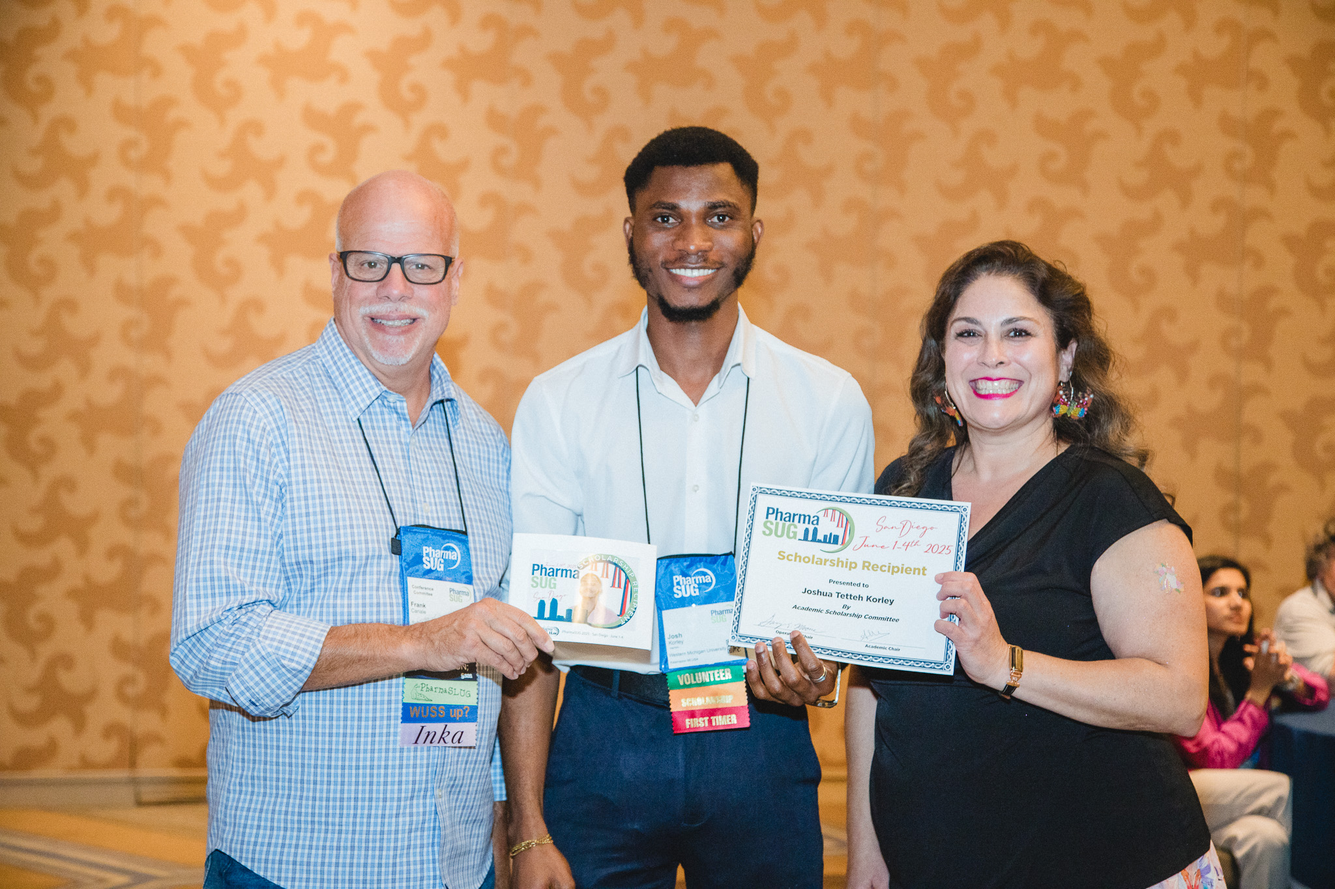
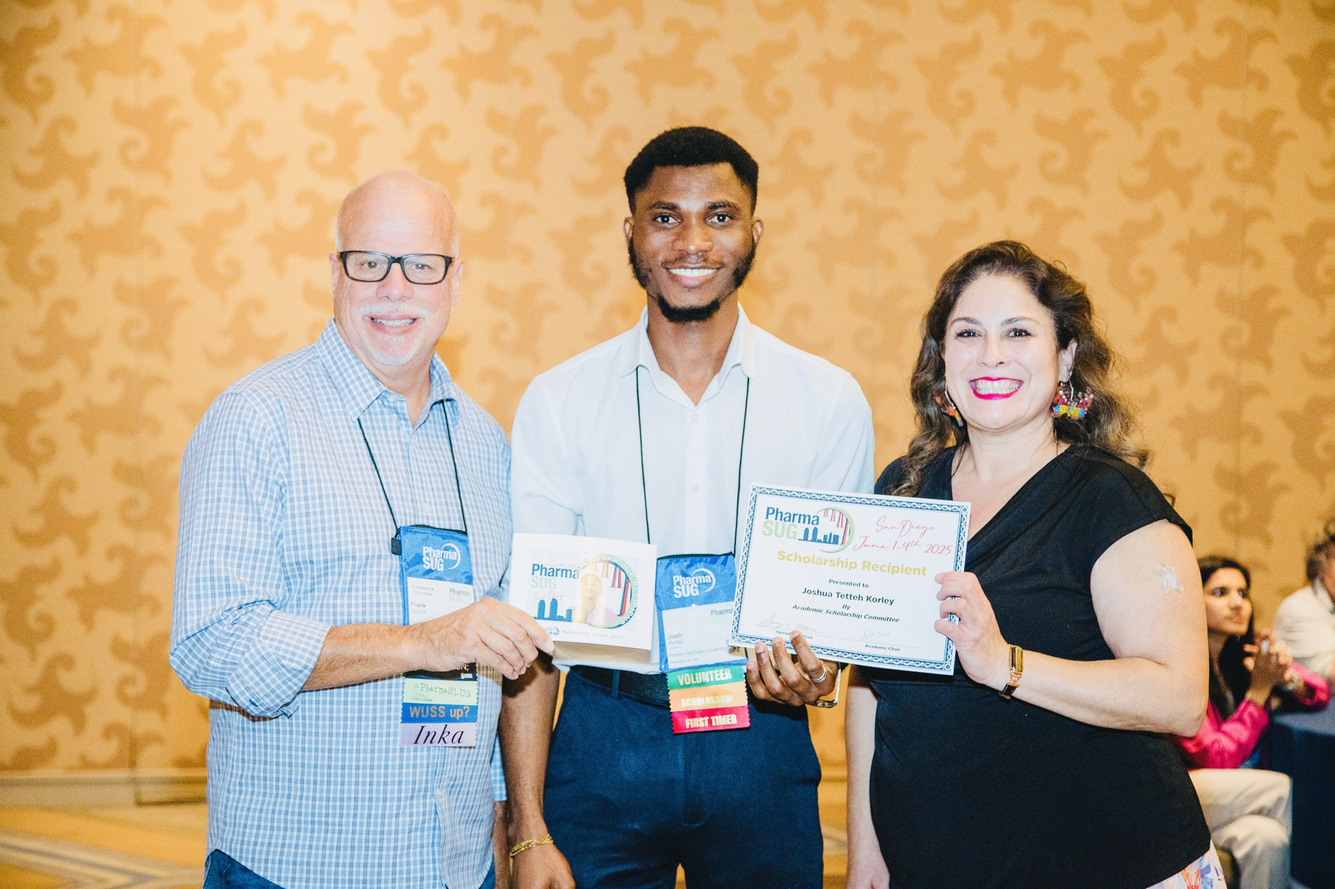
updates aga

diff --git a/docs/Updates.html b/docs/Updates.html
@@ -180,7 +180,7 @@ ul.task-list li input[type="checkbox"] {
 </ul>
 <div class="quarto-figure quarto-figure-center">
 <figure class="figure">
-<p><img src="images/phar.jpg" class="img-fluid figure-img" width="500"></p>
+<p><img src="pharm1.jpg" class="img-fluid figure-img" width="500"></p>
 <figcaption>Honored by the PharmaSUG Conference Committee with a Scholarship Award and Certificate of Achievement for my commitment to advancing clinical research and data science.</figcaption>
 </figure>
 </div>
